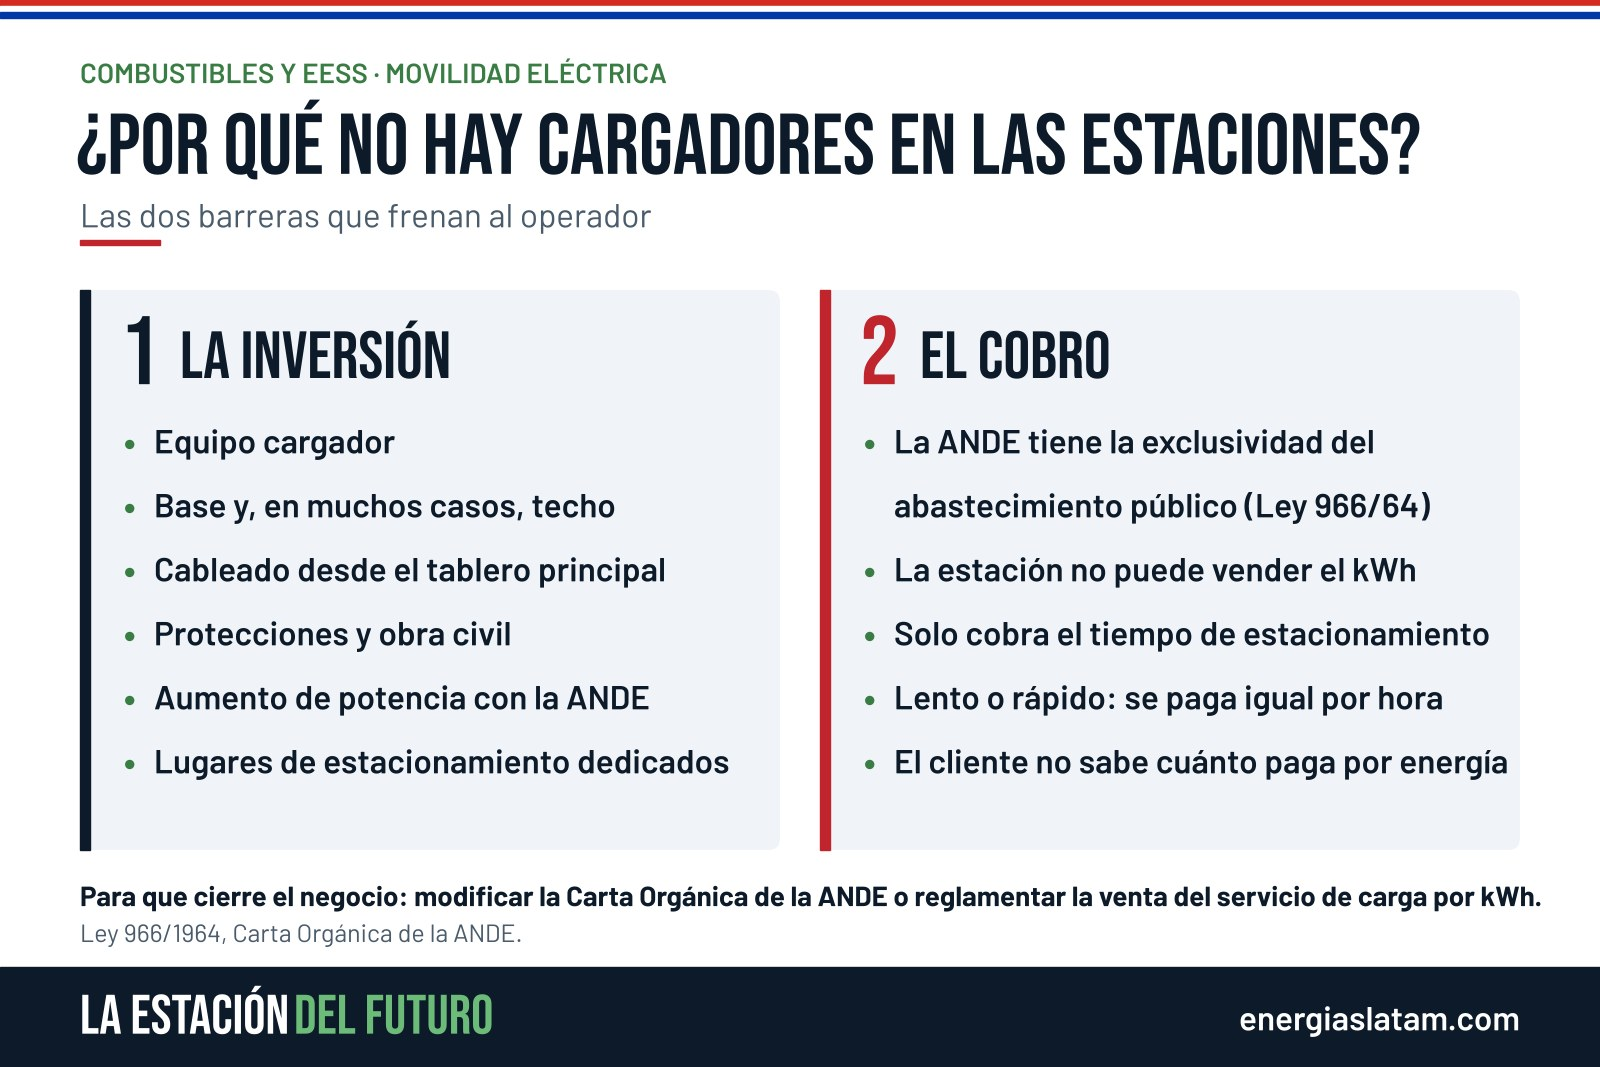
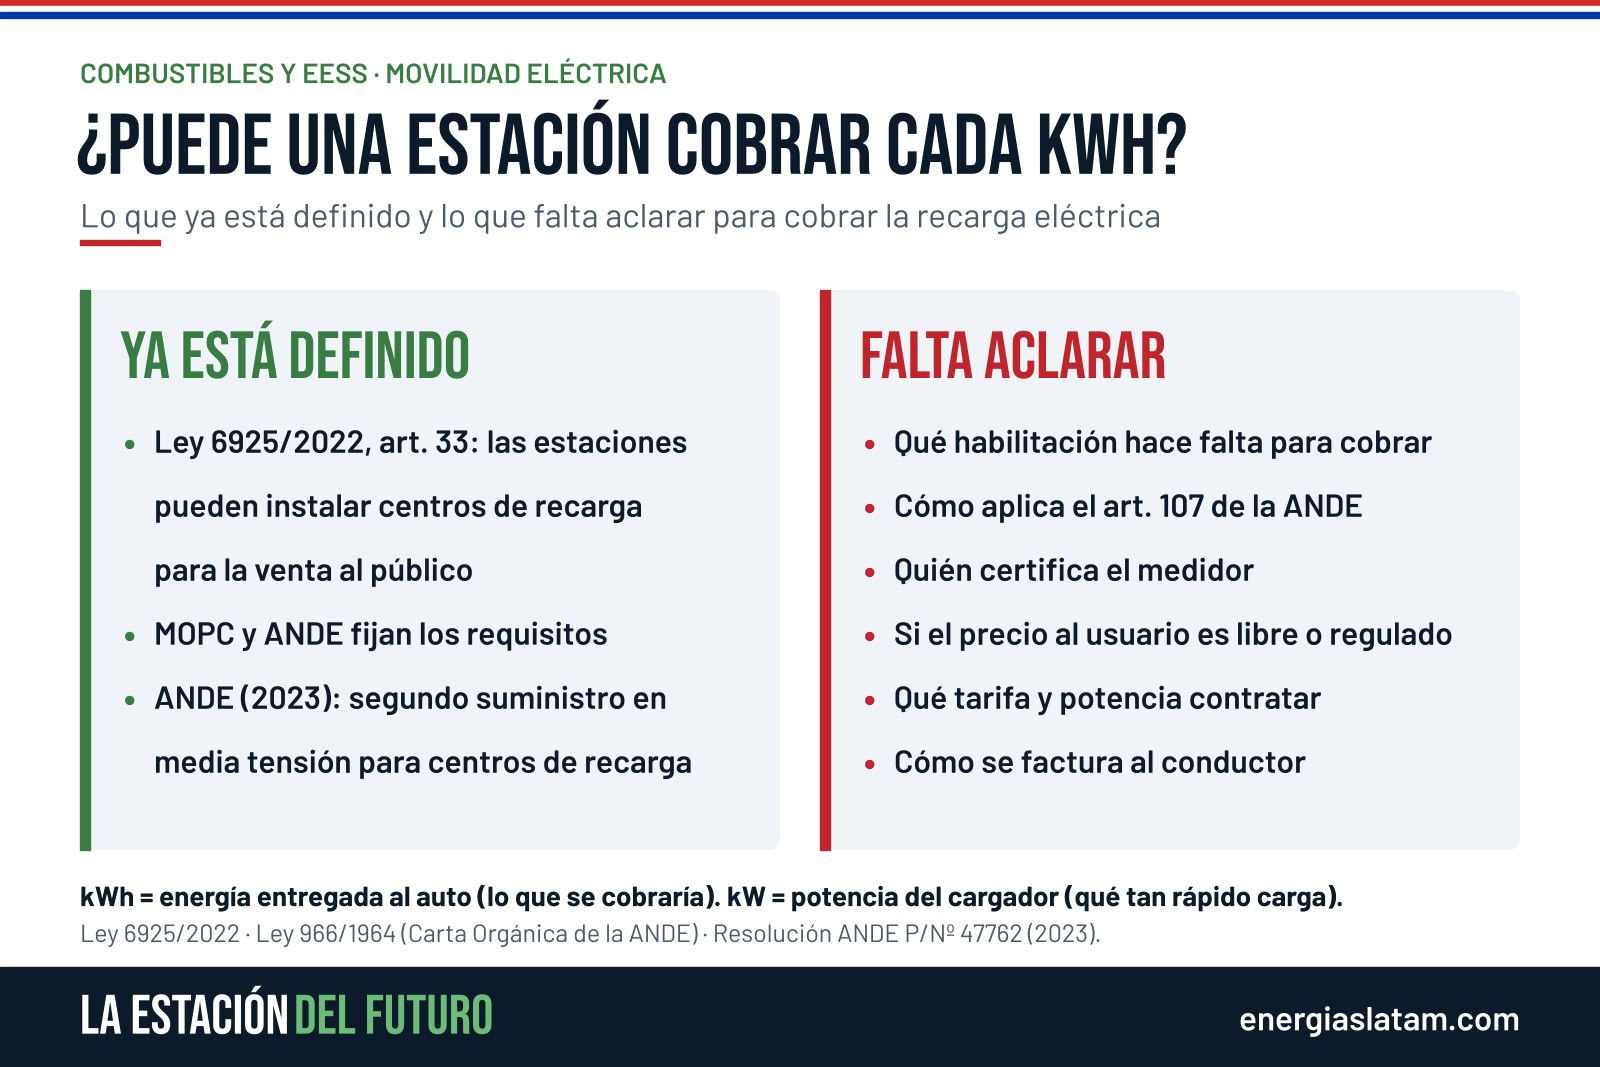
Cargadores: nota de análisis con Ley 6925/2022, art. 107 ANDE y resolución 2023
Claude-Session: https://claude.ai/code/session_01HHGRFrapr8AXyd2C4Baz1m

diff --git a/notas/2026-10-29-cargadores-electricos-estaciones.html b/notas/2026-10-29-cargadores-electricos-estaciones.html
@@ -1,28 +1,27 @@
 <figure><img src="img/2026-10-29-cargadores-electricos-estaciones-foto.jpg" alt="Cargador rápido para vehículos eléctricos junto a un cargador solar fotovoltaico de Itaipú, PTI y ANDE"><figcaption>Puesto de carga con cargador rápido y cargador solar fotovoltaico de Itaipú, el PTI y la ANDE. Foto: Itaipú Binacional.</figcaption></figure>
-<p>Los autos eléctricos ya no son una promesa: los importadores los están trayendo, junto con los híbridos enchufables, y cada vez se ven más en las calles de Paraguay. En las estaciones aparece una pregunta que antes no existía: ¿por qué acá no hay un cargador? La respuesta no tiene que ver con falta de interés de los operadores. Tiene que ver con dos números que todavía no cierran, lo que cuesta instalarlo y lo que se puede cobrar por usarlo, y con varias preguntas que nadie respondió todavía.</p>
+<p>La expansión de los vehículos eléctricos abre una pregunta para las estaciones de servicio paraguayas: ¿cómo convertir la recarga en un servicio comercial sostenible y transparente para el cliente? La ley de movilidad eléctrica contempla la venta de energía al público en centros de recarga. Sin embargo, para los operadores sigue siendo clave conocer cómo se habilita esa actividad y bajo qué condiciones se puede medir y cobrar la energía entregada a cada vehículo.</p>
 <h2>Los autos ya están llegando</h2>
-<p>En 2025 se importaron 4.049 vehículos híbridos y eléctricos, un 65,7 % más que los 2.443 de 2024, y ya representan el 10,5 % de todas las importaciones de vehículos. Dentro de ese total, los que necesitan enchufe crecieron más rápido: 858 eléctricos puros, un 47,2 % más, y 1.105 híbridos enchufables, casi el triple que el año anterior.</p>
-<p>Son casi 2.000 autos por año que en algún momento van a necesitar cargar fuera de casa, sobre todo en la ruta. Y la estación de servicio es el lugar natural para hacerlo.</p>
-<div class="datos"><div><b>4.049</b><span>híbridos y eléctricos importados en 2025, un 65,7 % más que en 2024</span></div><div><b>1.963</b><span>de ellos se enchufan: 858 eléctricos y 1.105 híbridos enchufables</span></div><div><b>10,5 %</b><span>de todas las importaciones de vehículos de 2025</span></div></div>
-<h2>Una inversión que empieza en el tablero</h2>
-<p>Un cargador no es un equipo que se enchufa a la pared. Al precio del equipo hay que sumarle la base, en muchos casos un techo o cobertura, la canalización y el cableado desde el tablero principal de la estación, las protecciones y, cuando la potencia disponible no alcanza, un aumento de la potencia contratada con la ANDE. A eso se agregan la obra civil, la señalización y los lugares de estacionamiento que dejan de usarse para otra cosa.</p>
-<p>Para un dueño de estación, todo eso es capital que compite con lo que el negocio ya pide todos los días: surtidores, tanques, tienda, imagen del emblema y mantenimiento. Y a diferencia de una isla de combustible, el cargador ocupa el lugar durante mucho más tiempo por cliente.</p>
-<figure><img src="img/2026-10-29-cargadores-electricos-estaciones-1.jpg" alt="Las dos barreras para instalar cargadores eléctricos en una estación de servicio: la inversión inicial y la imposibilidad de cobrar por kWh"><figcaption>Las dos barreras que hoy frenan los cargadores en las estaciones.</figcaption></figure>
-<h2>Lo que no se puede cobrar: el kWh</h2>
-<p>La segunda barrera es la que más pesa. La Carta Orgánica de la ANDE, la Ley 966 de 1964, le da a la estatal la exclusividad del abastecimiento público de electricidad, y los contratos de suministro son intransferibles. En la práctica, la estación no puede vender la energía por kWh, como sí vende el combustible por litro.</p>
-<p>Lo único que puede cobrar es el uso del espacio: el tiempo de estacionamiento o el servicio. Eso trae problemas concretos. Un auto que carga lento paga lo mismo por hora que uno que carga rápido, aunque se lleve mucha menos energía. El cliente no tiene una referencia clara de cuánto paga por lo que carga. Y el operador no puede trasladar al precio lo que le cuesta la energía que factura la ANDE.</p>
-<h2>Las preguntas que todavía no tienen respuesta</h2>
-<p>Antes de poner un cargador, cualquier estacionero se encuentra con preguntas que hoy no tienen una respuesta clara y por escrito:</p>
+<p>En 2025 se importaron 4.049 vehículos híbridos y eléctricos, un 65,7 % más que los 2.443 de 2024, y ya representan el 10,5 % de todas las importaciones de vehículos. Los que necesitan enchufe crecieron más rápido: 858 eléctricos puros, un 47,2 % más, y 1.105 híbridos enchufables, casi el triple que el año anterior. Son casi 2.000 autos por año que en algún momento van a necesitar cargar fuera de casa, sobre todo en la ruta.</p>
+<div class="datos"><div><b>4.049</b><span>híbridos y eléctricos importados en 2025, un 65,7 % más que en 2024</span></div><div><b>1.963</b><span>de ellos se enchufan: 858 eléctricos y 1.105 híbridos enchufables</span></div><div><b>Art. 33</b><span>de la Ley 6925/2022: las estaciones pueden instalar centros de recarga para la venta al público</span></div></div>
+<h2>kWh no es lo mismo que kW</h2>
+<p>Una de las opciones para cobrar la recarga es hacerlo por kilovatio hora (kWh), es decir, por la energía efectivamente entregada al vehículo. Ese dato no debe confundirse con los kilovatios (kW), que expresan la potencia del cargador: un equipo de más kW carga más rápido, pero lo que el auto se lleva se mide en kWh, igual que el combustible se mide en litros.</p>
+<h2>Lo que dice la ley</h2>
+<p>La Ley 6925/2022, de incentivos y promoción del transporte eléctrico, contempla expresamente que las estaciones de venta de combustible o servicios afines instalen centros de recarga para la venta al público en general. Su artículo 33 establece que el MOPC y la ANDE deben fijar los requisitos para habilitarlos, sean públicos o privados.</p>
+<p>Pero la pregunta comercial va más allá de instalar el equipo. Para el operador, las preguntas clave son:</p>
 <ul>
-<li><b>¿Qué habilitación necesita</b> el estacionero para cobrar por la energía entregada?</li>
-<li><b>¿Cómo se aplica la regla de la ANDE</b> sobre el suministro a terceros cuando la energía se entrega a un auto?</li>
-<li><b>¿Quién certifica el medidor</b> del cargador, como se certifica hoy el surtidor?</li>
+<li><b>¿Qué habilitación necesita</b> para cobrar por la energía entregada?</li>
+<li><b>¿Cómo se aplica la regla de la ANDE</b> sobre el suministro a terceros?</li>
+<li><b>¿Quién certifica el medidor</b> del cargador?</li>
 <li><b>¿El precio al usuario es libre o está regulado?</b></li>
-<li><b>¿Qué tarifa paga la estación a la ANDE</b> por esa energía y qué potencia necesita contratar?</li>
+<li><b>¿Qué tarifa paga la estación a la ANDE</b> y qué potencia necesita contratar?</li>
 </ul>
-<p>Sin esas respuestas, ningún banco financia y ningún operador puede armar un plan de negocios serio.</p>
-<h2>Qué habría que cambiar</h2>
-<p>Para que el cargador sea un negocio y no solo un gasto, hace falta modificar la Carta Orgánica de la ANDE o reglamentar una figura específica: un prestador del servicio de carga que pueda comprar la energía a la ANDE, con una tarifa pensada para esa actividad, y venderla al usuario por kWh. Esa reglamentación debería responder las preguntas de arriba y venir acompañada de reglas técnicas de conexión, medición y seguridad, para que todos los operadores compitan en las mismas condiciones.</p>
-<p>Con el kWh habilitado, la cuenta cambia: el operador puede recuperar la inversión con un precio claro y el cliente sabe lo que paga, igual que en el surtidor.</p>
+<p>En la revisión de fuentes realizada para esta nota no se identificó una disposición vigente que responda de forma expresa a todos esos puntos. Eso no significa, por sí solo, que no exista una norma aplicable.</p>
+<h2>La Carta Orgánica de la ANDE</h2>
+<p>Otra cuestión es la relación con la Carta Orgánica de la ANDE, la Ley 966 de 1964, cuyo artículo 107 establece que ningún usuario puede abastecer a terceros mediante derivaciones de su instalación. La aplicación de esa disposición a los centros de recarga previstos en la ley posterior requiere una aclaración de las autoridades. No corresponde concluir, a partir de una lectura aislada, que toda recarga comercial esté prohibida.</p>
+<p>La ANDE dispuso en 2023 que puede autorizar, de forma excepcional y con su certificación previa, un segundo suministro en media tensión, con acometida independiente, exclusivo para alimentar un centro de recarga, encuadrado en las categorías tarifarias 412 o 413 tras una consulta previa de factibilidad. Esa medida se refiere al abastecimiento del centro; no establece por sí sola cómo debe cobrarse al conductor.</p>
+<figure><img src="img/2026-10-29-cargadores-electricos-estaciones-1.jpg" alt="Lo que ya está definido y lo que falta aclarar para cobrar la recarga eléctrica en una estación de servicio"><figcaption>Lo que ya está definido y lo que todavía falta aclarar para cobrar la recarga.</figcaption></figure>
+<h2>Los números del negocio</h2>
+<p>El negocio también depende de cuánto paga la estación por la electricidad, de la potencia contratada, de la inversión en el equipo, la base, el techo, el cableado desde el tablero principal y la obra civil, y de la cantidad de vehículos que efectivamente usan el cargador. Una regla clara de medición y facturación ayudaría a los operadores a evaluar esos costos y a los usuarios a entender qué están pagando.</p>
+<p>Un estudio del Banco Interamericano de Desarrollo publicado en 2024 ya señalaba la necesidad de definir derechos, responsabilidades y condiciones para los prestadores de servicios de electromovilidad. Se trata de un diagnóstico de ese momento, no de una prueba concluyente sobre la regulación vigente en 2026.</p>
 <h2>Qué significa para la estación de servicio</h2>
-<p>Mientras la regla no cambie, el cargador funciona más como un servicio para atraer clientes que como una línea de ingresos propia: el conductor que carga se queda más tiempo y consume en la tienda o en el café. Quien evalúe instalarlo hoy conviene que pida primero a la ANDE la factibilidad de potencia para su estación, compare carga lenta y rápida según el tiempo de permanencia de sus clientes y haga los números pensando en la tienda, no en la energía. Y que siga de cerca la discusión sobre la Carta Orgánica: los autos ya están llegando, y el día que se pueda cobrar el kWh, las estaciones que ya tengan la instalación preparada van a llegar primero.</p>
+<p>Antes de invertir, conviene hacer la consulta formal a la ANDE y al MOPC sobre la habilitación del centro de recarga y la forma de cobro, pedir la factibilidad de potencia para la estación y evaluar si conviene el segundo suministro en media tensión. Mientras esas respuestas llegan, el cargador puede funcionar también como un servicio que atrae clientes a la tienda y al café. Los autos ya están llegando: las estaciones que tengan la instalación preparada y las reglas claras van a ser las primeras en convertir la recarga en un negocio.</p>
